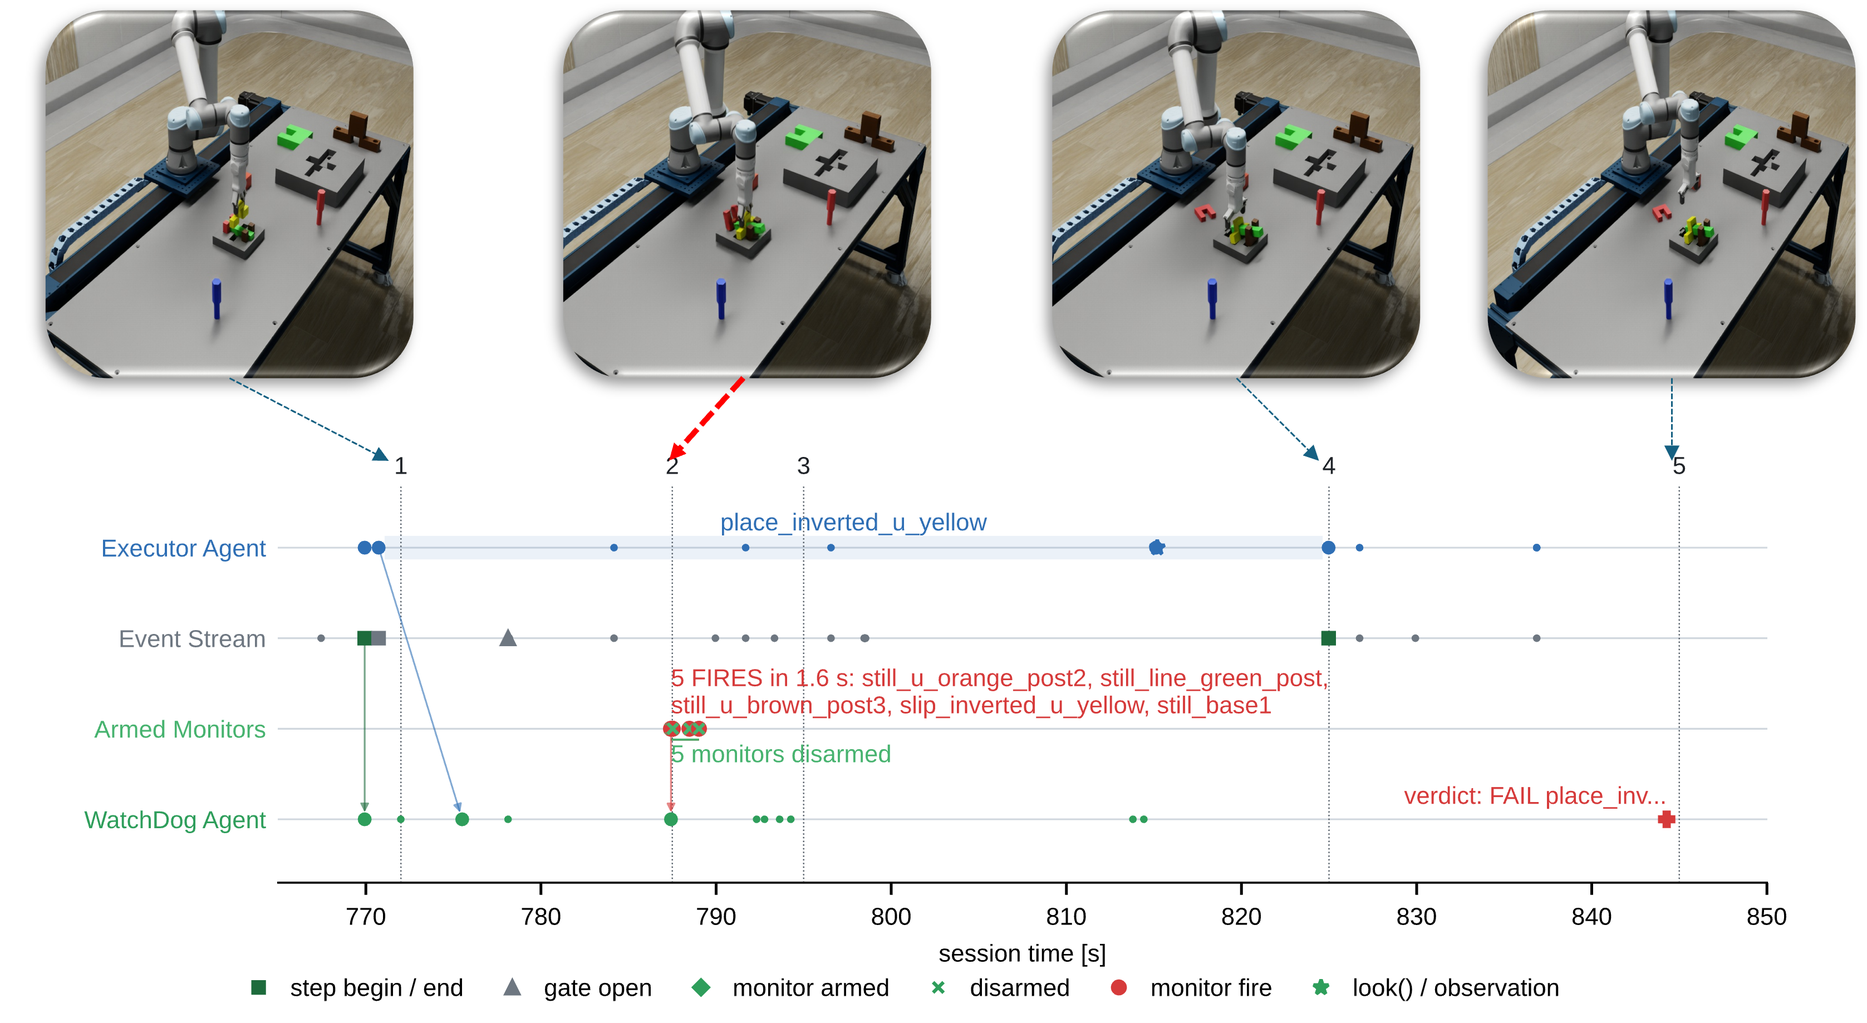
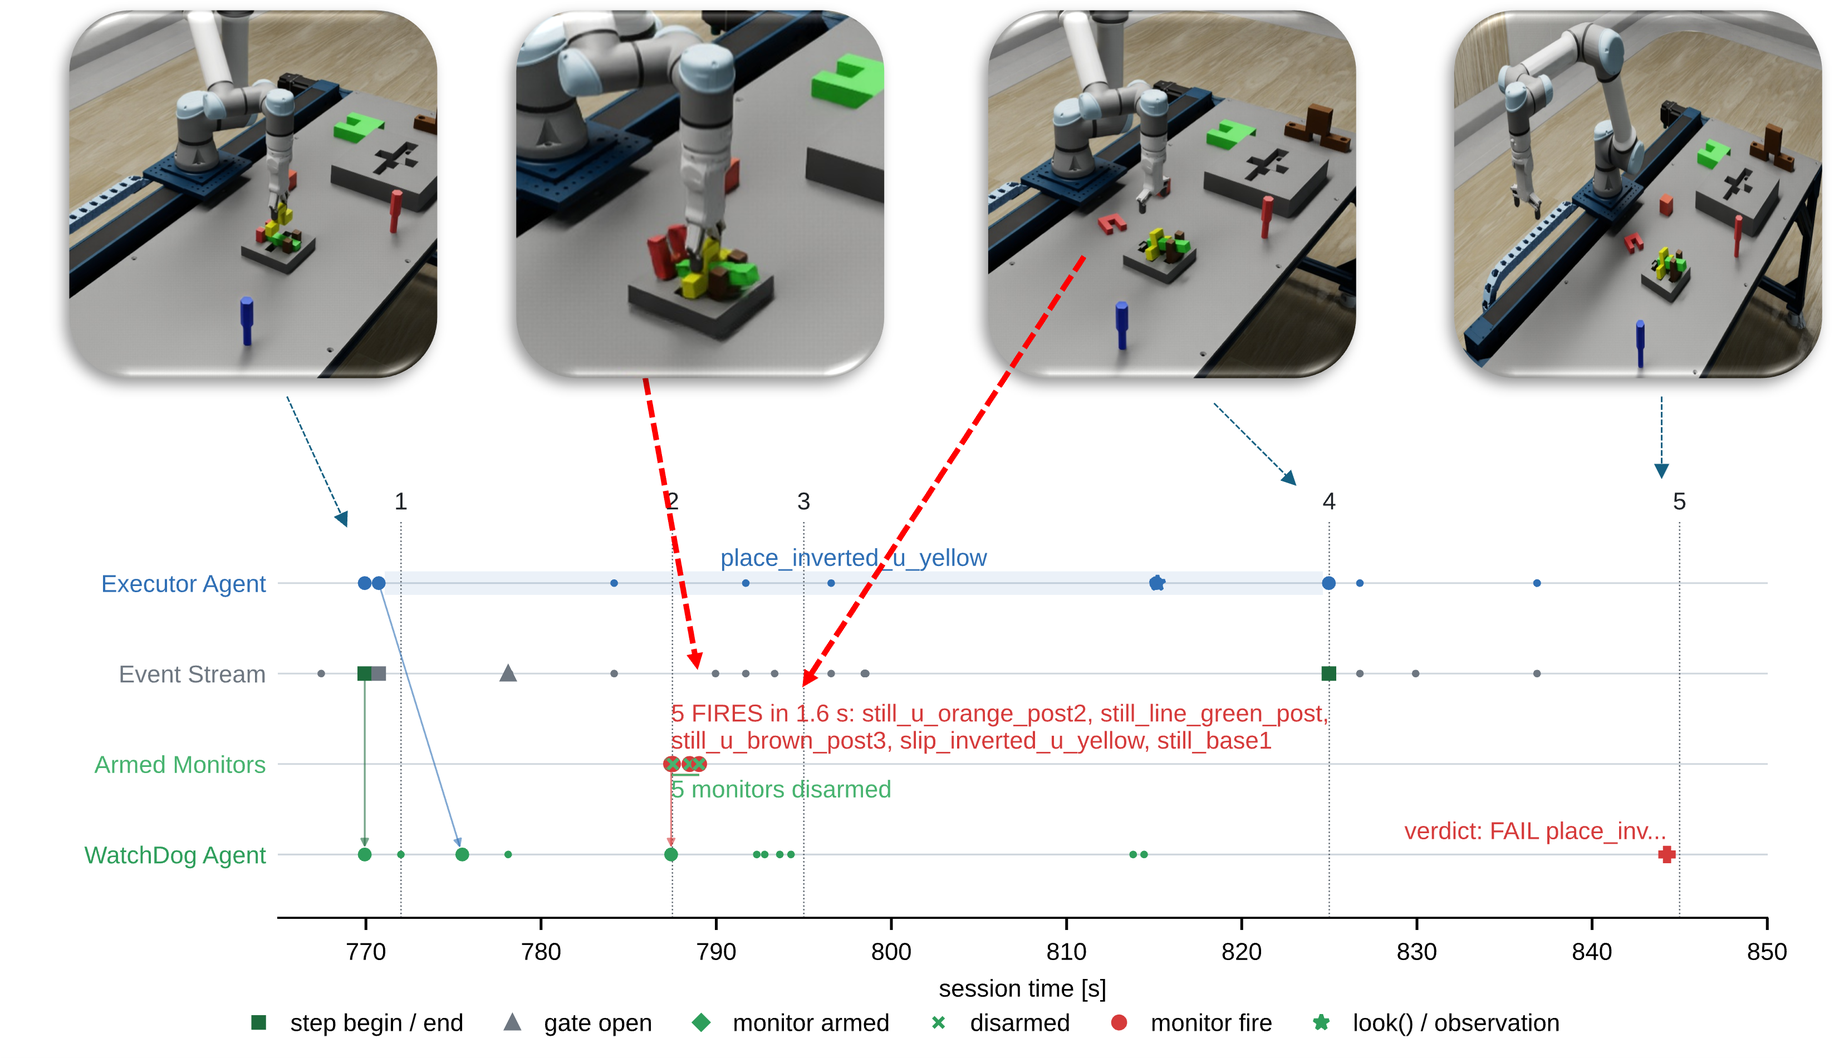
Enhance documentation and visuals: update text for clarity, improve table styles, and replace example images

diff --git a/index.html b/index.html
@@ -60,26 +60,27 @@
             process conforms to its specification, that failures are detected in time, and that the reported
             record of events can be trusted. An agent that checks its own work cannot give that assurance,
             because its execution and its verification share the same reasoning, and the same
-            misunderstanding can affect both. Manufacturing handles this by keeping execution separate from
-            inspection.
+            misunderstanding can affect both. Conventional manufacturing operations separate inspection and
+            process execution.
           </p>
           <p>
             We present WatchDog, a supervisory monitoring architecture that brings this separation to agentic
             robotic systems. WatchDog runs alongside the executing agent with no command authority, observes
             the cell through its own sensing channels, and takes its requirements from a separately authored
-            specification rather than from the executor's plan. It arms runtime monitors for grasp state,
-            insertion tolerance, disturbance of parts, applied effort, and the workspace. The monitors run at
-            sensor rate, while the language model reasons only when arming the monitors and when judging a
-            monitor fire. Each verdict is tied to a requirement and backed by timestamped evidence, producing
+            specification rather than from the executor's plan. It arms runtime monitors such as grasp state,
+            insertion tolerance, disturbance of parts, applied effort, and the workspace. Once armed, the
+            monitors run over the sensor data at the sensor rate, and the large language model is used only to
+            set them up at the start of each step and to judge each alarm they raise. Each verdict is tied to a requirement and backed by timestamped evidence, producing
             a traceable conformance record.
           </p>
           <p>
-            We evaluate WatchDog in Isaac Sim, supervising an LLM executor agent on an assembly from the
+            We evaluate WatchDog in NVIDIA Isaac Sim, supervising an LLM executor agent on an assembly from the
             Functional Manipulation Benchmark over 108 runs. The results show that a separate WatchDog armed
             over 90% of the required checks, against 66.4% when the executor monitored itself, and caught a
-            corrupted executor specification at the step where it occurred in 9 of 9 runs. Although a
-            stronger model closed the coverage gap of self monitoring, the independence and latency gaps
-            remained, and monitoring with a separate WatchDog in parallel is more time efficient than a
+            corrupted executor specification at the step where it occurred in 9 of 9 runs. A more capable
+            model with more reasoning (Claude Opus 5.5 at medium effort, against Claude Sonnet 5 at low effort)
+            closed the coverage gap of self monitoring, but the independence and latency gaps remained, and
+            monitoring with a separate WatchDog in parallel is more time efficient than a
             single agent executing and monitoring itself.
           </p>
         </div>
@@ -95,7 +96,7 @@
     <div class="columns is-multiline findings">
       <div class="column is-6">
         <div class="finding-card">
-          <p class="finding-lead">A separate monitoring agent arms more of what the task requires.</p>
+          <p class="finding-lead">A separate monitoring agent arms more of the required monitors.</p>
           <p>Arming coverage is 90.3 to 92.7% with WatchDog (S1 to S3), against 66.4% when the executor monitors itself (S4). Fault recall is 75.8 to 100% with a separate agent, against 59.2% without.</p>
         </div>
       </div>
@@ -113,13 +114,13 @@
       </div>
       <div class="column is-6">
         <div class="finding-card">
-          <p class="finding-lead">Scene observation is a capability limit, not a sensing one.</p>
-          <p>Across 81 detectable episodes in the baseline, the Sonnet-low agent reported none. With Opus as the monitoring model, the same episodes were reported at 55.6% at low effort and 90% at medium effort in S3.</p>
+          <p class="finding-lead">Scene observation is a capability limit.</p>
+          <p>Across the 81 baseline runs that carried a detectable episode, the Sonnet-low agent reported none, in any scenario. With Opus as the monitoring model, the same episodes were reported at 55.6% at low effort and 90% at medium effort in S3.</p>
         </div>
       </div>
       <div class="column is-6">
         <div class="finding-card">
-          <p class="finding-lead">A stronger monitoring model closes the coverage gap but not the independence gap.</p>
+          <p class="finding-lead">A stronger monitoring model closes the coverage gap but not the independence and latency gaps.</p>
           <p>Moving from Sonnet-low to Opus-medium takes S4 arming coverage from 68.4% to 99.8%, but S4 fault recall reaches 85.7%, where the same model in S3 reaches 100%.</p>
         </div>
       </div>
@@ -144,8 +145,8 @@
       <figcaption>
         Figure 1. System architecture. The task contract (instructions and requirements) is sent to both
         the executor and WatchDog agents at the start of a step. Each agent reasons independently and calls
-        only its own MCP server: the executor's reaching gripper, motion, and scene tools, WatchDog's
-        reaching monitor arming, monitor authoring, and evidence recording. An orchestrator passes
+        only its own MCP server: the executor's server reaches gripper, motion, and scene tools, and
+        WatchDog's reaches monitor arming, monitor authoring, and evidence recording. An orchestrator passes
         step-synchronization signals between the two agents but holds no reasoning role and calls neither
         agent's tools.
       </figcaption>
@@ -158,15 +159,16 @@
   <div class="container is-max-desktop">
     <h2 class="title is-3 has-text-centered">One task, two briefs</h2>
     <figure class="figure-block">
-      <img src="static/images/task_handover.png" alt="Task hand-over: one task specification, two agents, two different briefs">
-      <figcaption>Figure 2. WatchDog arms monitors before each step, the monitors watch the cell at sensor
-        rate while the executor acts, and each fire is adjudicated into a verdict backed by recorded evidence.
-        Before a run, the same task specification reaches both agents, but each gets a different brief.
-        The executor receives <em>how</em>: the step plan (pick, approach, seat for each of the four parts) with grasp widths,
-        approach offsets and placement frames, and the tools to move the arm and gripper. The WatchDog receives only
-        <em>what must be true</em>: the end state required at each place step, the limits that must hold throughout
-        (clamp effort, no slip, untouched parts stay put) and the duty to watch the work area for anything unexpected.
-        Every threshold comes from the part registry, not from either agent. The two never talk to each other except through the event stream.</figcaption>
+      <a href="static/images/task_handover.png" target="_blank" rel="noopener">
+        <img src="static/images/task_handover.png" alt="How it works: the task specification and part registry feed two agents. The executor receives HOW, the step plan; WatchDog receives WHAT must hold during the process plus the expected process plan. Every step: executor announces, WatchDog arms monitors, gate released, robot moves, a fire is judged, verdict recorded.">
+      </a>
+      <figcaption>Figure 2. How it works, shown for an assembly from the Functional Manipulation Benchmark
+        (FMB). The executor receives the 12-step process plan (HOW), including where each part is grasped and
+        placed, and carries it out. WatchDog receives the requirements (WHAT), with thresholds drawn from the
+        part registry, and the expected process plan, and records any step the executor takes outside that
+        plan. At each step, WatchDog arms its monitors before the gate opens, the monitors watch the cell at
+        sensor rate while the robot moves, and each fire is adjudicated into a verdict backed by recorded
+        evidence.</figcaption>
     </figure>
   </div>
 </section>
@@ -227,6 +229,15 @@
 
     <div class="content has-text-justified">
       <p>
+        <strong>Two briefs.</strong> The executor receives a 12-step process plan, a pick, an approach, and a
+        seat for each part, which defines where each part is grasped and where it is placed. It does not plan
+        the assembly; it carries out these steps with its tools. WatchDog receives the requirements that must
+        hold throughout the process, including not disturbing seated parts or unrelated objects on the table,
+        grasp retention tolerances, grasp effort tolerances, and the expected process plan, but not the
+        executor's grasp or placement details or its reports. WatchDog is also asked to record any step that
+        is not in the expected plan.
+      </p>
+      <p>
         <strong>Step gate.</strong> Before the executor is allowed to begin a step, the orchestrator waits
         for the WatchDog agent to confirm its monitors are armed. Without it, nothing guarantees WatchDog
         has finished arming before the executor starts moving.
@@ -250,6 +261,14 @@
         verdict is logged with a timestamp, a ROS 2 bag records every topic in the cell, and the session
         manifest stores a hash of the specification registry, so each verdict points to the clause it
         concerns and to the evidence that supports it.
+      </p>
+      <p>
+        <strong>Generality.</strong> WatchDog needs only signals published on the middleware and a
+        specification to check them against. A welding, machining, or dispensing cell publishes different
+        signals, such as current, spindle load, or flow rate, but the pattern is the same: wrap the signal as
+        a typed function, add a monitor family that reads it, or let the WatchDog agent write the monitor from
+        the specification. Because WatchDog never calls the executor's tools, the executor can be an agent
+        developed by someone else, a scripted program, or a human operator.
       </p>
       <p>
         Each video opens with the hand-over card: the task and the brief each agent received for that run.
@@ -341,32 +360,55 @@
       an assembly from the Functional Manipulation Benchmark (FMB), with per-object specifications in the
       registry file. Each run took between 8 and 15 minutes.
     </p>
+    <div class="results-panel design-table">
+      <h3 class="title is-6 table-title">Table 1. Monitoring scenarios and run classes used in the evaluation.</h3>
+      <div class="table-scroll">
+        <table class="table is-narrow results-table">
+          <thead>
+            <tr><th colspan="2">Scenarios (who monitors, and how)</th></tr>
+          </thead>
+          <tbody>
+            <tr><th>S1</th><td>Separate WatchDog; arms library monitors only.</td></tr>
+            <tr><th>S2</th><td>Separate WatchDog; may arm library monitors, write its own, or both.</td></tr>
+            <tr><th>S3</th><td>Separate WatchDog; writes its own monitor code only.</td></tr>
+            <tr><th>S4</th><td>No WatchDog; the executor arms or writes its own monitors while doing the task.</td></tr>
+          </tbody>
+          <thead>
+            <tr><th colspan="2">Run classes (what happens in the run)</th></tr>
+          </thead>
+          <tbody>
+            <tr><th>Class 1</th><td>Clean run; conforms to the specification.</td></tr>
+            <tr><th>Class 2</th><td>A violation occurs; the executor's specification is correct, so it may notice and retry.</td></tr>
+            <tr><th>Class 3</th><td>The executor adds an extra, valid step; the outcome conforms and should not be flagged.</td></tr>
+            <tr><th>Class 4</th><td>The executor's specification is wrong; it reports success while the true limit is violated.</td></tr>
+          </tbody>
+        </table>
+      </div>
+    </div>
     <p class="results-intro">
-      <strong>Scenarios:</strong> S1, WatchDog arms library monitors only; S2, WatchDog can do either or
-      both; S3, WatchDog writes monitor code only; S4, no separate WatchDog agent, the executor arms or
-      writes its own monitors on top of doing the task.
-      <strong>Classes:</strong> 1, a clean, conforming run; 2, nonconforming with a correct executor
-      specification; 3, conforming with an extra, unspecified step that WatchDog should not flag; 4, a wrong
-      executor specification, made by tightening the maximum clamp effort in the true registry while the
-      executor keeps the looser value.
-      <strong>Models:</strong> the baseline uses Claude Sonnet 5 at low reasoning effort for both roles (23
-      runs per scenario: five Class 1, ten Class 2, five Class 3, three Class 4). A second set uses Claude
-      Opus 5.5 as the monitoring model on Classes 1 and 2 only, and is never pooled with the baseline.
+      The baseline runs all four scenarios against all four classes with Claude Sonnet 5 at low reasoning
+      effort for both roles: 23 runs per scenario, five Class 1, ten Class 2, five Class 3, and three Class 4.
+      Class 3 runs add an additional reorientation of the part. Class 4 runs tighten the maximum clamp effort
+      in the true registry, which WatchDog reads, while the executor keeps the original, looser value: the
+      grasp still looks successful and the executor reports success, yet the clamp has exceeded the true
+      limit, which can damage a part and cannot be undone by a retry. A second set switches the monitoring
+      agent to Claude Opus 5.5, at low and medium reasoning effort in S3 and at medium effort in S4, over
+      Classes 1 and 2; these runs are never pooled with the baseline.
     </p>
 
     <div class="tabs is-boxed is-small results-tabs js-tabs is-hidden" id="results-tabs" role="tablist">
       <ul>
-        <li class="is-active"><a href="#table-1" role="tab" data-panel="table-1">Table 1. Baseline</a></li>
-        <li><a href="#table-2" role="tab" data-panel="table-2">Table 2. Independence</a></li>
-        <li><a href="#table-3" role="tab" data-panel="table-3">Table 3. Scene observation</a></li>
-        <li><a href="#table-4" role="tab" data-panel="table-4">Table 4. Model and effort</a></li>
-        <li><a href="#table-5" role="tab" data-panel="table-5">Table 5. Task time</a></li>
+        <li class="is-active"><a href="#table-2" role="tab" data-panel="table-2">Table 2. Baseline</a></li>
+        <li><a href="#table-3" role="tab" data-panel="table-3">Table 3. Independence</a></li>
+        <li><a href="#table-4" role="tab" data-panel="table-4">Table 4. Scene observation</a></li>
+        <li><a href="#table-5" role="tab" data-panel="table-5">Table 5. Model and effort</a></li>
+        <li><a href="#table-6" role="tab" data-panel="table-6">Table 6. Task time</a></li>
       </ul>
     </div>
 
-    <!-- Table 1 -->
-    <div class="results-panel" id="table-1" role="tabpanel">
-      <h3 class="title is-6 table-title">Table 1. Baseline results for all four scenarios (Sonnet 5 at low reasoning effort, 23 runs each).</h3>
+    <!-- Table 2 -->
+    <div class="results-panel" id="table-2" role="tabpanel">
+      <h3 class="title is-6 table-title">Table 2. Baseline results for all four scenarios (Sonnet 5 at low reasoning effort, 23 runs each).</h3>
       <div class="table-scroll">
         <table class="table is-striped is-narrow results-table">
           <thead>
@@ -391,9 +433,9 @@
       </p>
     </div>
 
-    <!-- Table 2 -->
-    <div class="results-panel" id="table-2" role="tabpanel">
-      <h3 class="title is-6 table-title">Table 2. Independence under a corrupted executor specification (Class 4).</h3>
+    <!-- Table 3 -->
+    <div class="results-panel" id="table-3" role="tabpanel">
+      <h3 class="title is-6 table-title">Table 3. Independence under a corrupted executor specification (Class 4).</h3>
       <div class="table-scroll">
         <table class="table is-striped is-narrow results-table">
           <thead>
@@ -411,14 +453,15 @@
       <p class="table-caption">
         Step-level fault caught counts runs in which the violation was caught at the step where it occurred.
         The one correct S4 verdict was reached by accident: the executor missed the corrupted grasp and
-        flagged an unrelated fault later in the run. Every WatchDog miss was a fault that was caught and then
-        judged recovered, although a clamp past the true effort limit is not something a retry undoes.
+        flagged an unrelated fault later in the run. The WatchDog failures were due to misjudgment: in every
+        one, the fault was caught and then judged recovered, but a grasp with effort beyond tolerance cannot be
+        recovered, as the part is already damaged.
       </p>
     </div>
 
-    <!-- Table 3 -->
-    <div class="results-panel" id="table-3" role="tabpanel">
-      <h3 class="title is-6 table-title">Table 3. Scene-observation duty, whole batch, with the scripted oracle.</h3>
+    <!-- Table 4 -->
+    <div class="results-panel" id="table-4" role="tabpanel">
+      <h3 class="title is-6 table-title">Table 4. Scene-observation duty, whole batch, with the scripted oracle.</h3>
       <div class="table-scroll">
         <table class="table is-striped is-narrow results-table">
           <thead>
@@ -444,9 +487,9 @@
       </p>
     </div>
 
-    <!-- Table 4 -->
-    <div class="results-panel" id="table-4" role="tabpanel">
-      <h3 class="title is-6 table-title">Table 4. Effect of monitoring model and reasoning effort on S3 and S4 (Classes 1 and 2 only).</h3>
+    <!-- Table 5 -->
+    <div class="results-panel" id="table-5" role="tabpanel">
+      <h3 class="title is-6 table-title">Table 5. Effect of monitoring model and reasoning effort on S3 and S4 (Classes 1 and 2 only).</h3>
       <div class="table-scroll">
         <table class="table is-striped is-narrow results-table">
           <thead>
@@ -470,13 +513,13 @@
       <p class="table-caption">
         * In S4 the executor is its own monitor, so the model shown is the executor's. Token counts are the
         median of the agent's own output tokens per run, excluding cached input. Scene-observation results
-        for these conditions are in Table 3, and their timing and monitor delivery cost in Table 5.
+        for these conditions are in Table 4, and their timing and monitor delivery cost in Table 6.
       </p>
     </div>
 
-    <!-- Table 5 -->
-    <div class="results-panel" id="table-5" role="tabpanel">
-      <h3 class="title is-6 table-title">Table 5. Task-time decomposition and monitor delivery cost (medians).</h3>
+    <!-- Table 6 -->
+    <div class="results-panel" id="table-6" role="tabpanel">
+      <h3 class="title is-6 table-title">Table 6. Task-time decomposition and monitor delivery cost (medians).</h3>
       <div class="table-scroll">
         <table class="table is-striped is-narrow results-table">
           <thead>
@@ -512,6 +555,42 @@
         Sonnet-low and 6.1 s at Opus-medium, because it cannot poll until its current skill call returns.
         The evidence arrives on time in both arrangements, but only the separate agent is free to act on it
         while the arm is still moving.
+      </p>
+    </div>
+  </div>
+</section>
+
+<!-- 8b. Limitations and future work -->
+<section class="section pt-0" id="limitations">
+  <div class="container is-max-desktop">
+    <h2 class="title is-3 has-text-centered">Limitations and future work</h2>
+    <div class="content has-text-justified">
+      <p>
+        <strong>Adjudication.</strong> Every case in which WatchDog reached the wrong run verdict in Class 4
+        (5 of 9 runs across S1 to S3, Table 3) came from the same mistake: it caught the clamp violation at
+        the step where it happened, then reasoned that the assembly was still completed and judged the run
+        conformant. An over-effort clamp cannot be undone by finishing the task, so WatchDog needs explicit
+        rules for which faults a retry can fix and which it cannot.
+      </p>
+      <p>
+        <strong>Scene observation.</strong> With Sonnet 5 at low effort, WatchDog did not report unexpected
+        events, whether static, such as a cube that appears on the table mid-run and stays there, or
+        transient, such as an object that passes through the scene and leaves. Opus at medium effort reported
+        most of them.
+      </p>
+      <p>
+        <strong>Scope.</strong> All runs were in simulation, on one assembly, with poses from simulator
+        ground truth; the executor followed a given plan rather than planning the assembly itself; the Opus
+        and Class 4 sets were small; and all agents were Claude models, so pairings across model families are
+        untested. WatchDog also ran in observe-and-record mode and never halted the executor.
+      </p>
+      <p>
+        <strong>Next.</strong> We will evaluate WatchDog on a physical cell, where signals are noisy and
+        WatchDog must gather more evidence and write monitors that combine several modalities before it issues
+        a verdict. We also plan to give WatchDog the authority to halt unsafe actions and to perform risk
+        analysis, so it can judge whether a retry is safe before the executor attempts it, and to store its
+        verdicts on a blockchain, so that a record which cannot be changed is also a record grounded in
+        independent physical evidence.
       </p>
     </div>
   </div>

diff --git a/static/css/index.css b/static/css/index.css
@@ -224,6 +224,9 @@ body {
 .results-table { width: 100%; }
 .results-table th, .results-table td { text-align: center; white-space: nowrap; vertical-align: middle; }
 .results-table tbody th { text-align: left; }
+.design-table .results-table td,
+.design-table .results-table thead th { text-align: left; white-space: normal; }
+.design-table .results-table thead th { background: var(--panel); }
 .table-caption { color: var(--muted); font-size: 0.9rem; margin-top: 0.5rem; }
 .timing-note { margin-top: 0.5rem; }
 
